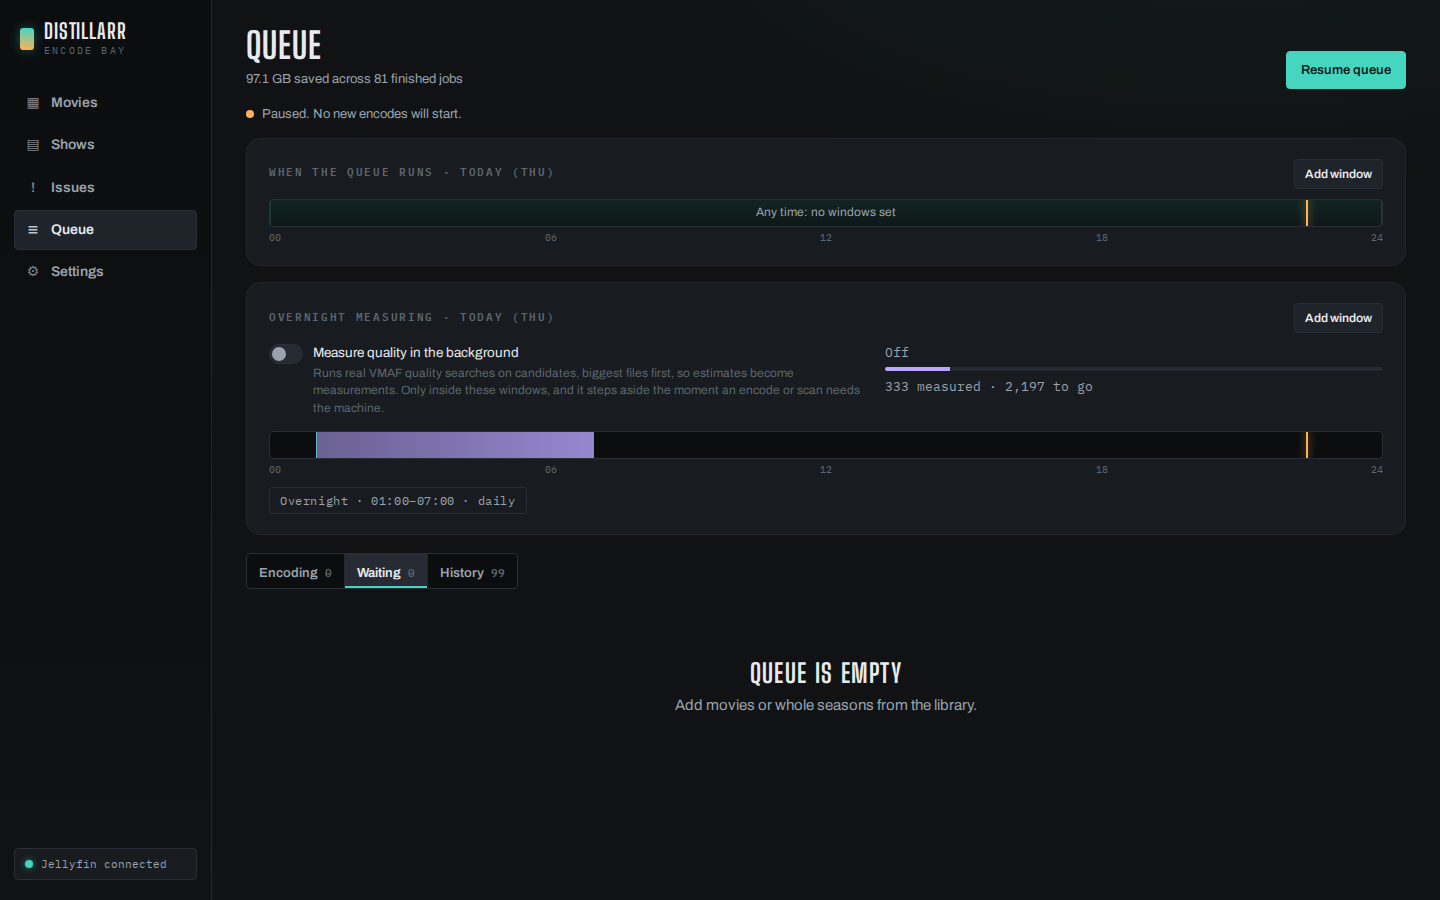
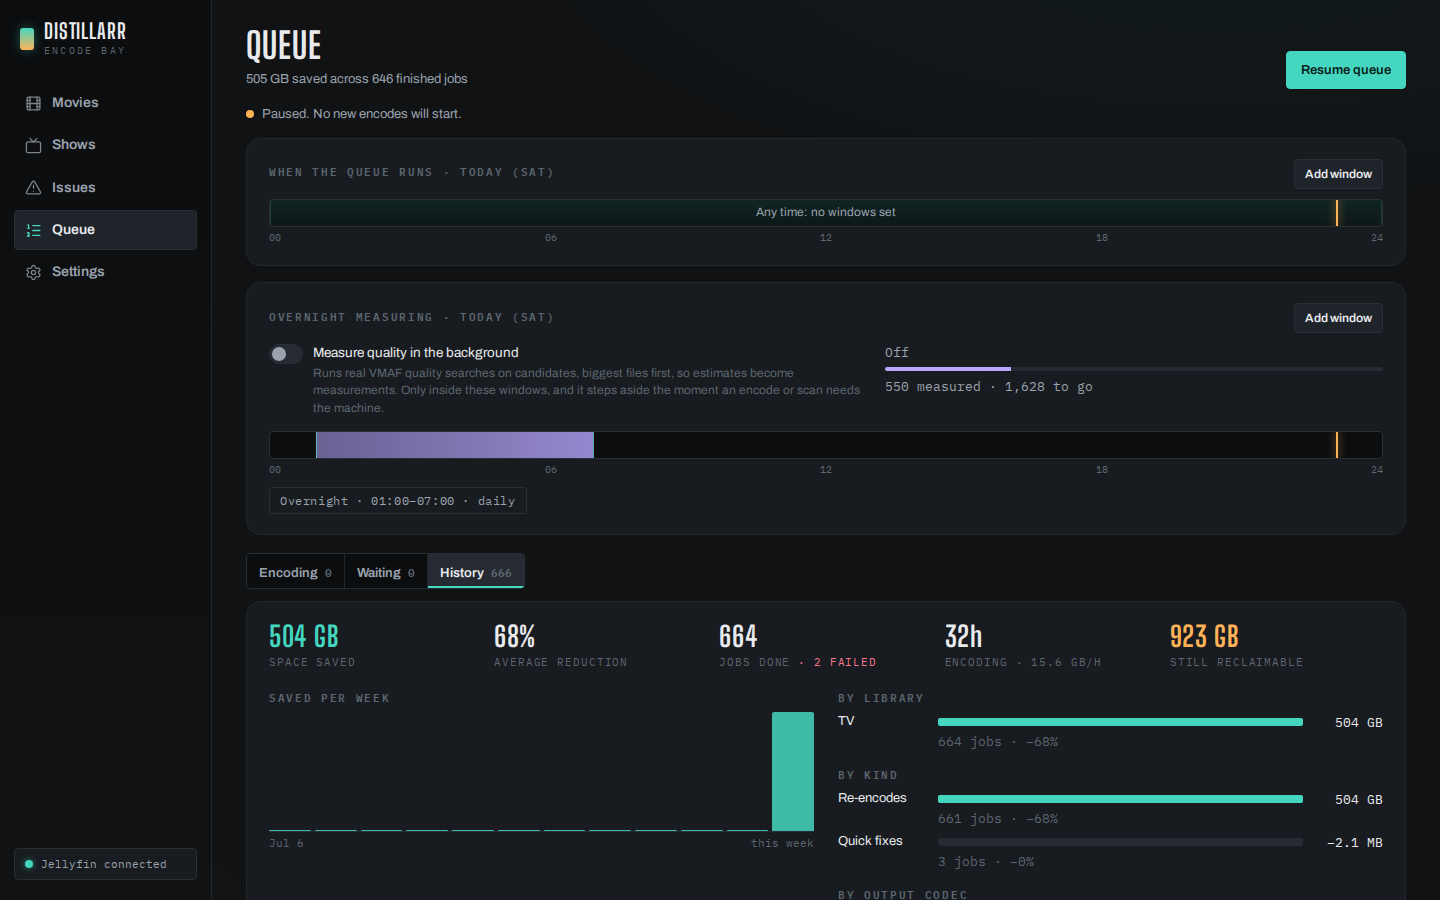
docs: README tour with fresh screenshots of every main page

diff --git a/README.md b/README.md
@@ -1,11 +1,24 @@
 # Distillarr
 
+[![CI](https://github.com/CreatureSurvive/distillarr/actions/workflows/ci.yml/badge.svg)](https://github.com/CreatureSurvive/distillarr/actions/workflows/ci.yml)
+[![Licence: GPL-3.0-or-later](https://img.shields.io/badge/licence-GPL--3.0--or--later-blue)](LICENSE)
+[![Image](https://img.shields.io/badge/image-ghcr.io%2Fcreaturesurvive%2Fdistillarr-2496ed?logo=docker&logoColor=white)](https://github.com/CreatureSurvive/distillarr/pkgs/container/distillarr)
+
 Distillarr finds the files in your media library that would shrink or play
 better, and re-encodes them (HEVC, AV1 or H.264) on your GPU or CPU. It
 checks every result against the original before it replaces anything, and
 it works with Sonarr, Radarr, Jellyfin, Plex and Bazarr.
 
-![Movies library with per-file savings](docs/img/library.png)
+![Movies library, sorted by the space each file would save](docs/img/library.png)
+
+- [What it does](#what-it-does)
+- [Tour](#tour)
+- [Quick start](#quick-start)
+- [Safety](#safety)
+- [Integrations](#integrations)
+- [Hardware](#hardware)
+- [Development](#development)
+- [Licence](#licence)
 
 ## What it does
 
@@ -39,10 +52,59 @@ it works with Sonarr, Radarr, Jellyfin, Plex and Bazarr.
 What it doesn't do: download anything, manage your library layout, or
 touch files you haven't queued (automation is off until you turn it on).
 
+## Tour
+
+### Per-file recommendations
+
+Each file page shows what the recommended encode would do and why: the
+codec and encoder, the quality that was measured on this file's own
+samples, and the expected size. Every option can be overridden per file,
+and the exact ffmpeg command is one click away.
+
+![File page: encode options and a measured size estimate](docs/img/file.png)
+
+### A/B previews
+
+Before committing to a setting, encode a few short samples spread across
+the file and play them side by side (or stacked) with the original, with
+the VMAF score and size of each.
+
+![A/B compare: source and HEVC samples side by side](docs/img/preview.png)
+
+### Whole shows and seasons
+
+Shows are planned a season at a time: how much the season would shrink,
+how many episodes clear your savings threshold, and one button to queue
+them. Episodes that aren't worth it are marked "keep".
+
 | | |
 |---|---|
-| ![File page](docs/img/file.png) | ![Issues](docs/img/issues.png) |
-| ![Queue](docs/img/queue.png) | ![Settings](docs/img/settings.png) |
+| ![Shows, sorted by the space each would save](docs/img/shows.png) | ![Season plan for one show](docs/img/show.png) |
+
+### Issues
+
+Problems are grouped by kind and labelled as a quick fix (a remux, video
+untouched), a re-encode, or information only. Fix one file or a whole
+group at once.
+
+![Issues page: problem groups and affected files](docs/img/issues.png)
+
+### Queue and history
+
+The queue runs inside the processing windows you set, and history keeps
+track of what's been saved: per week, per library, per codec, and the
+biggest wins.
+
+![Queue: processing windows and history of space saved](docs/img/queue.png)
+
+### Settings
+
+Defaults for new recommendations, connections, automation rules,
+notifications, languages and subtitles, upscaling and security all live
+under Settings. Every setting is described in
+[docs/configuration.md](docs/configuration.md).
+
+![Encoding defaults](docs/img/settings.png)
 
 ## Quick start
 
